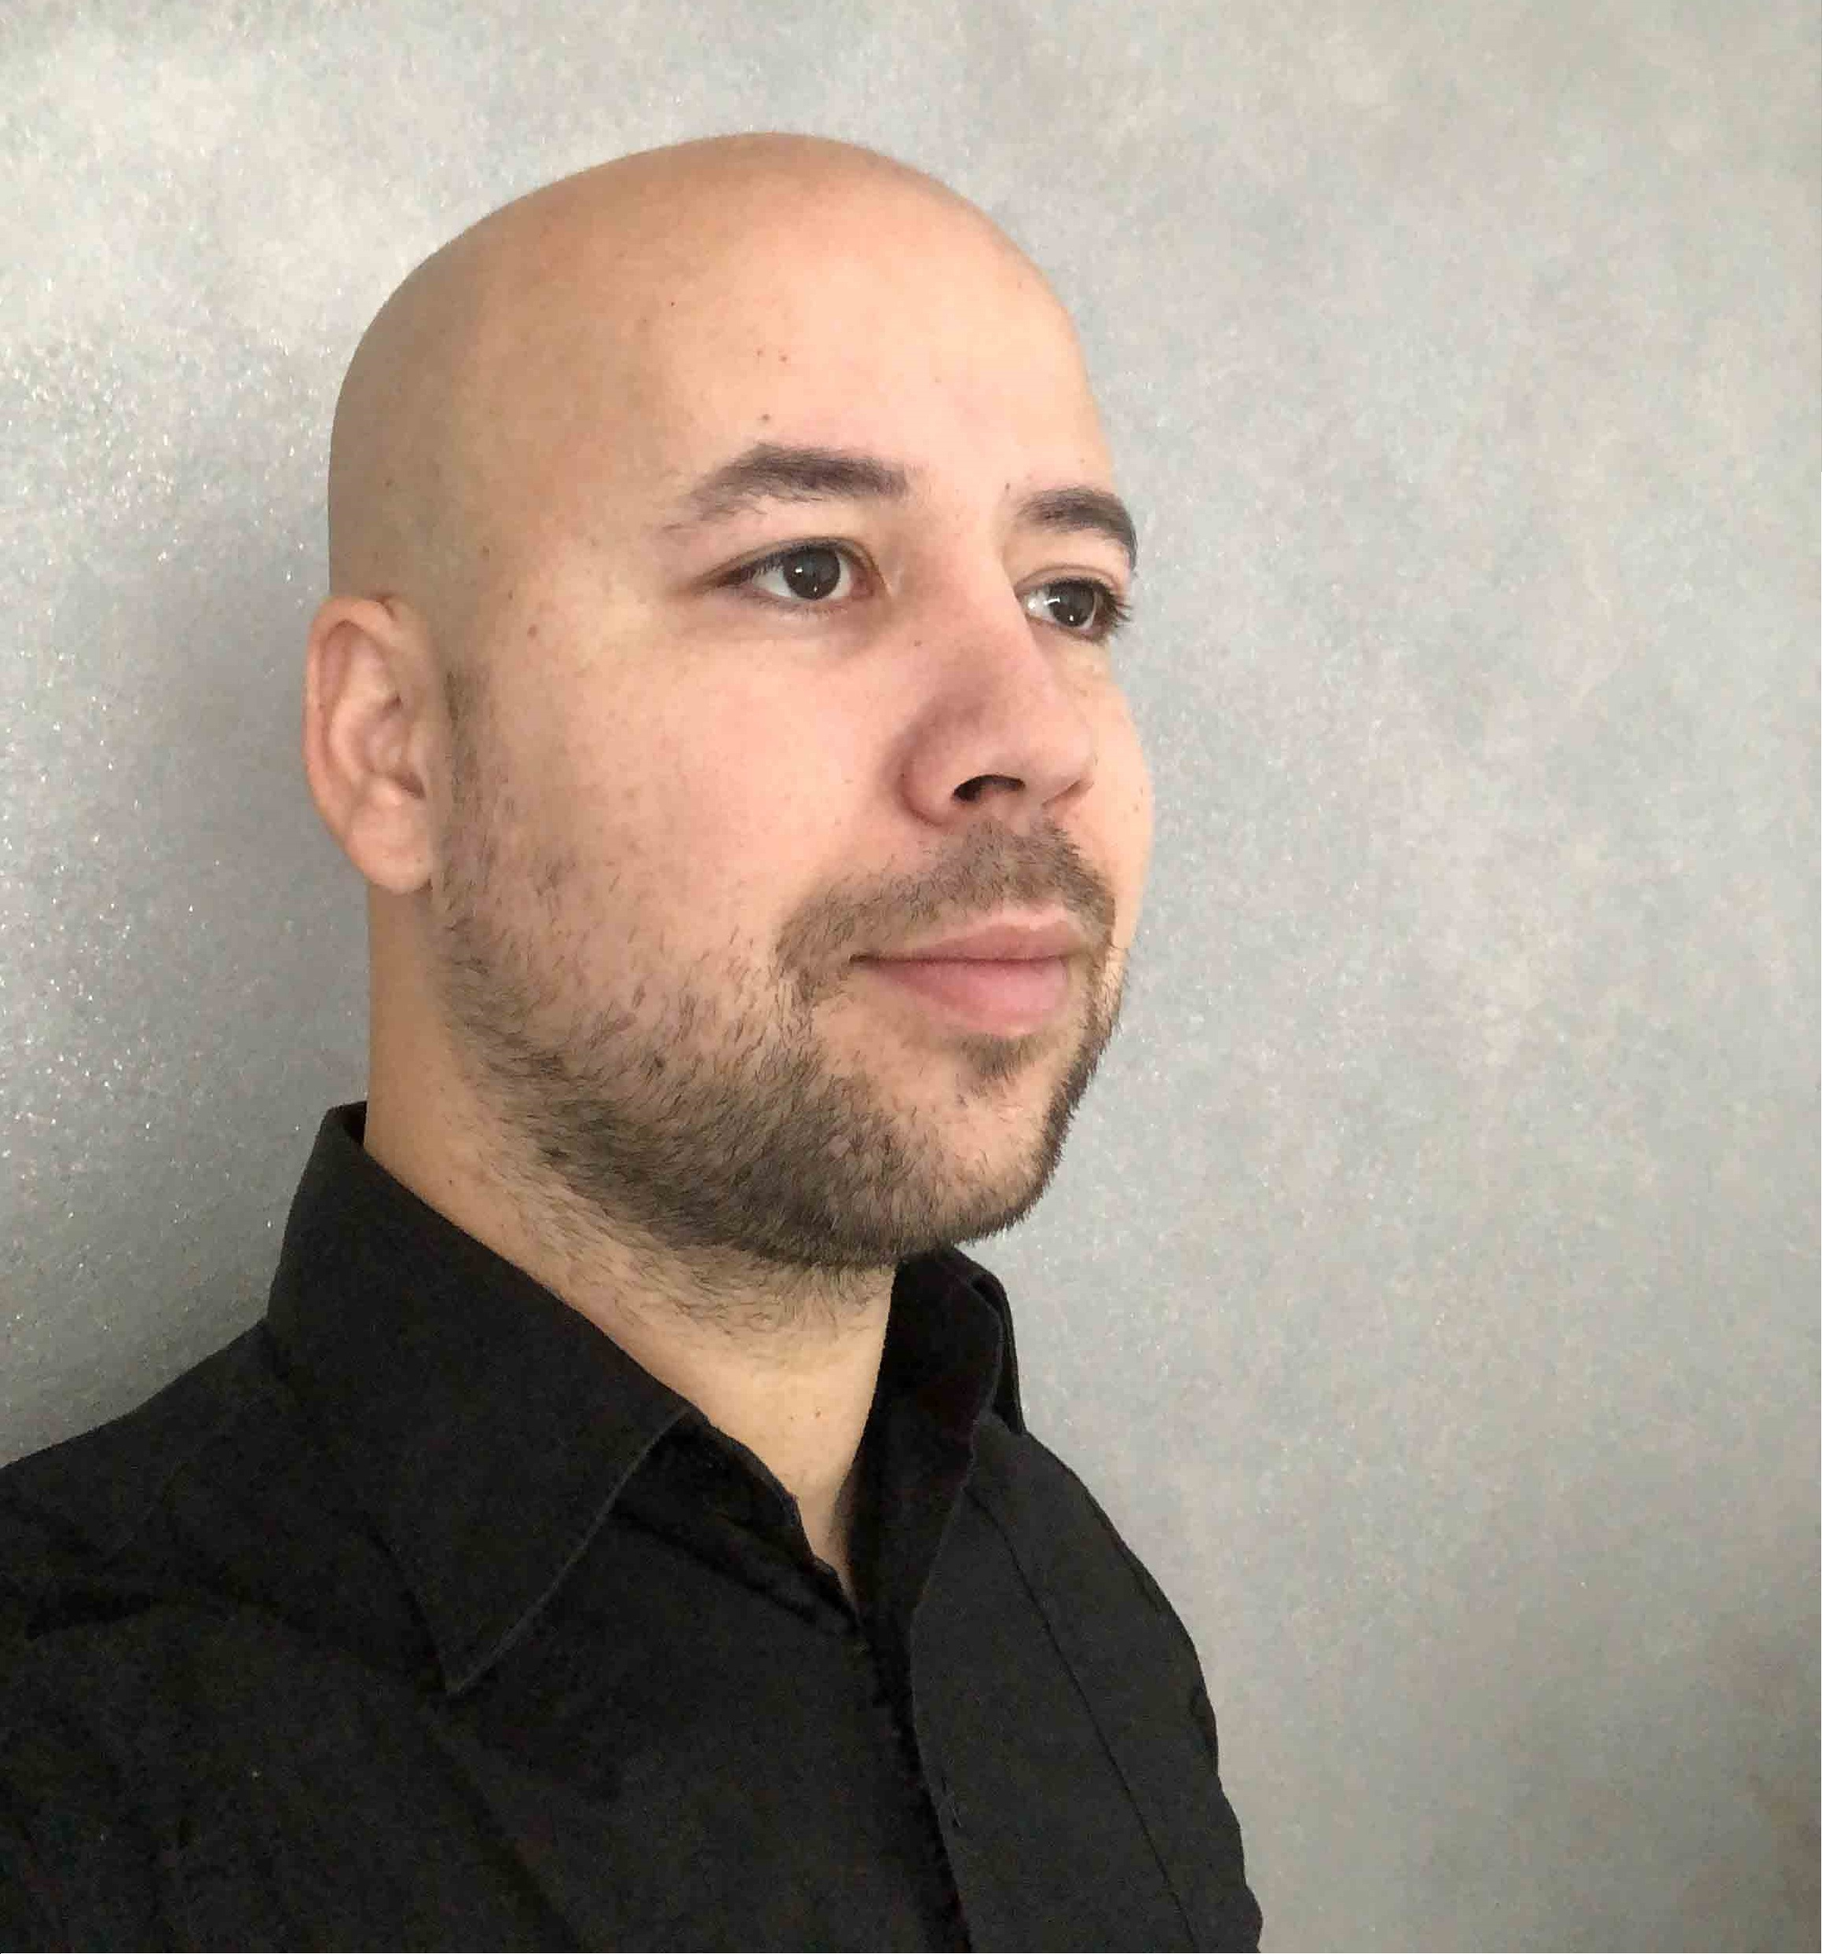
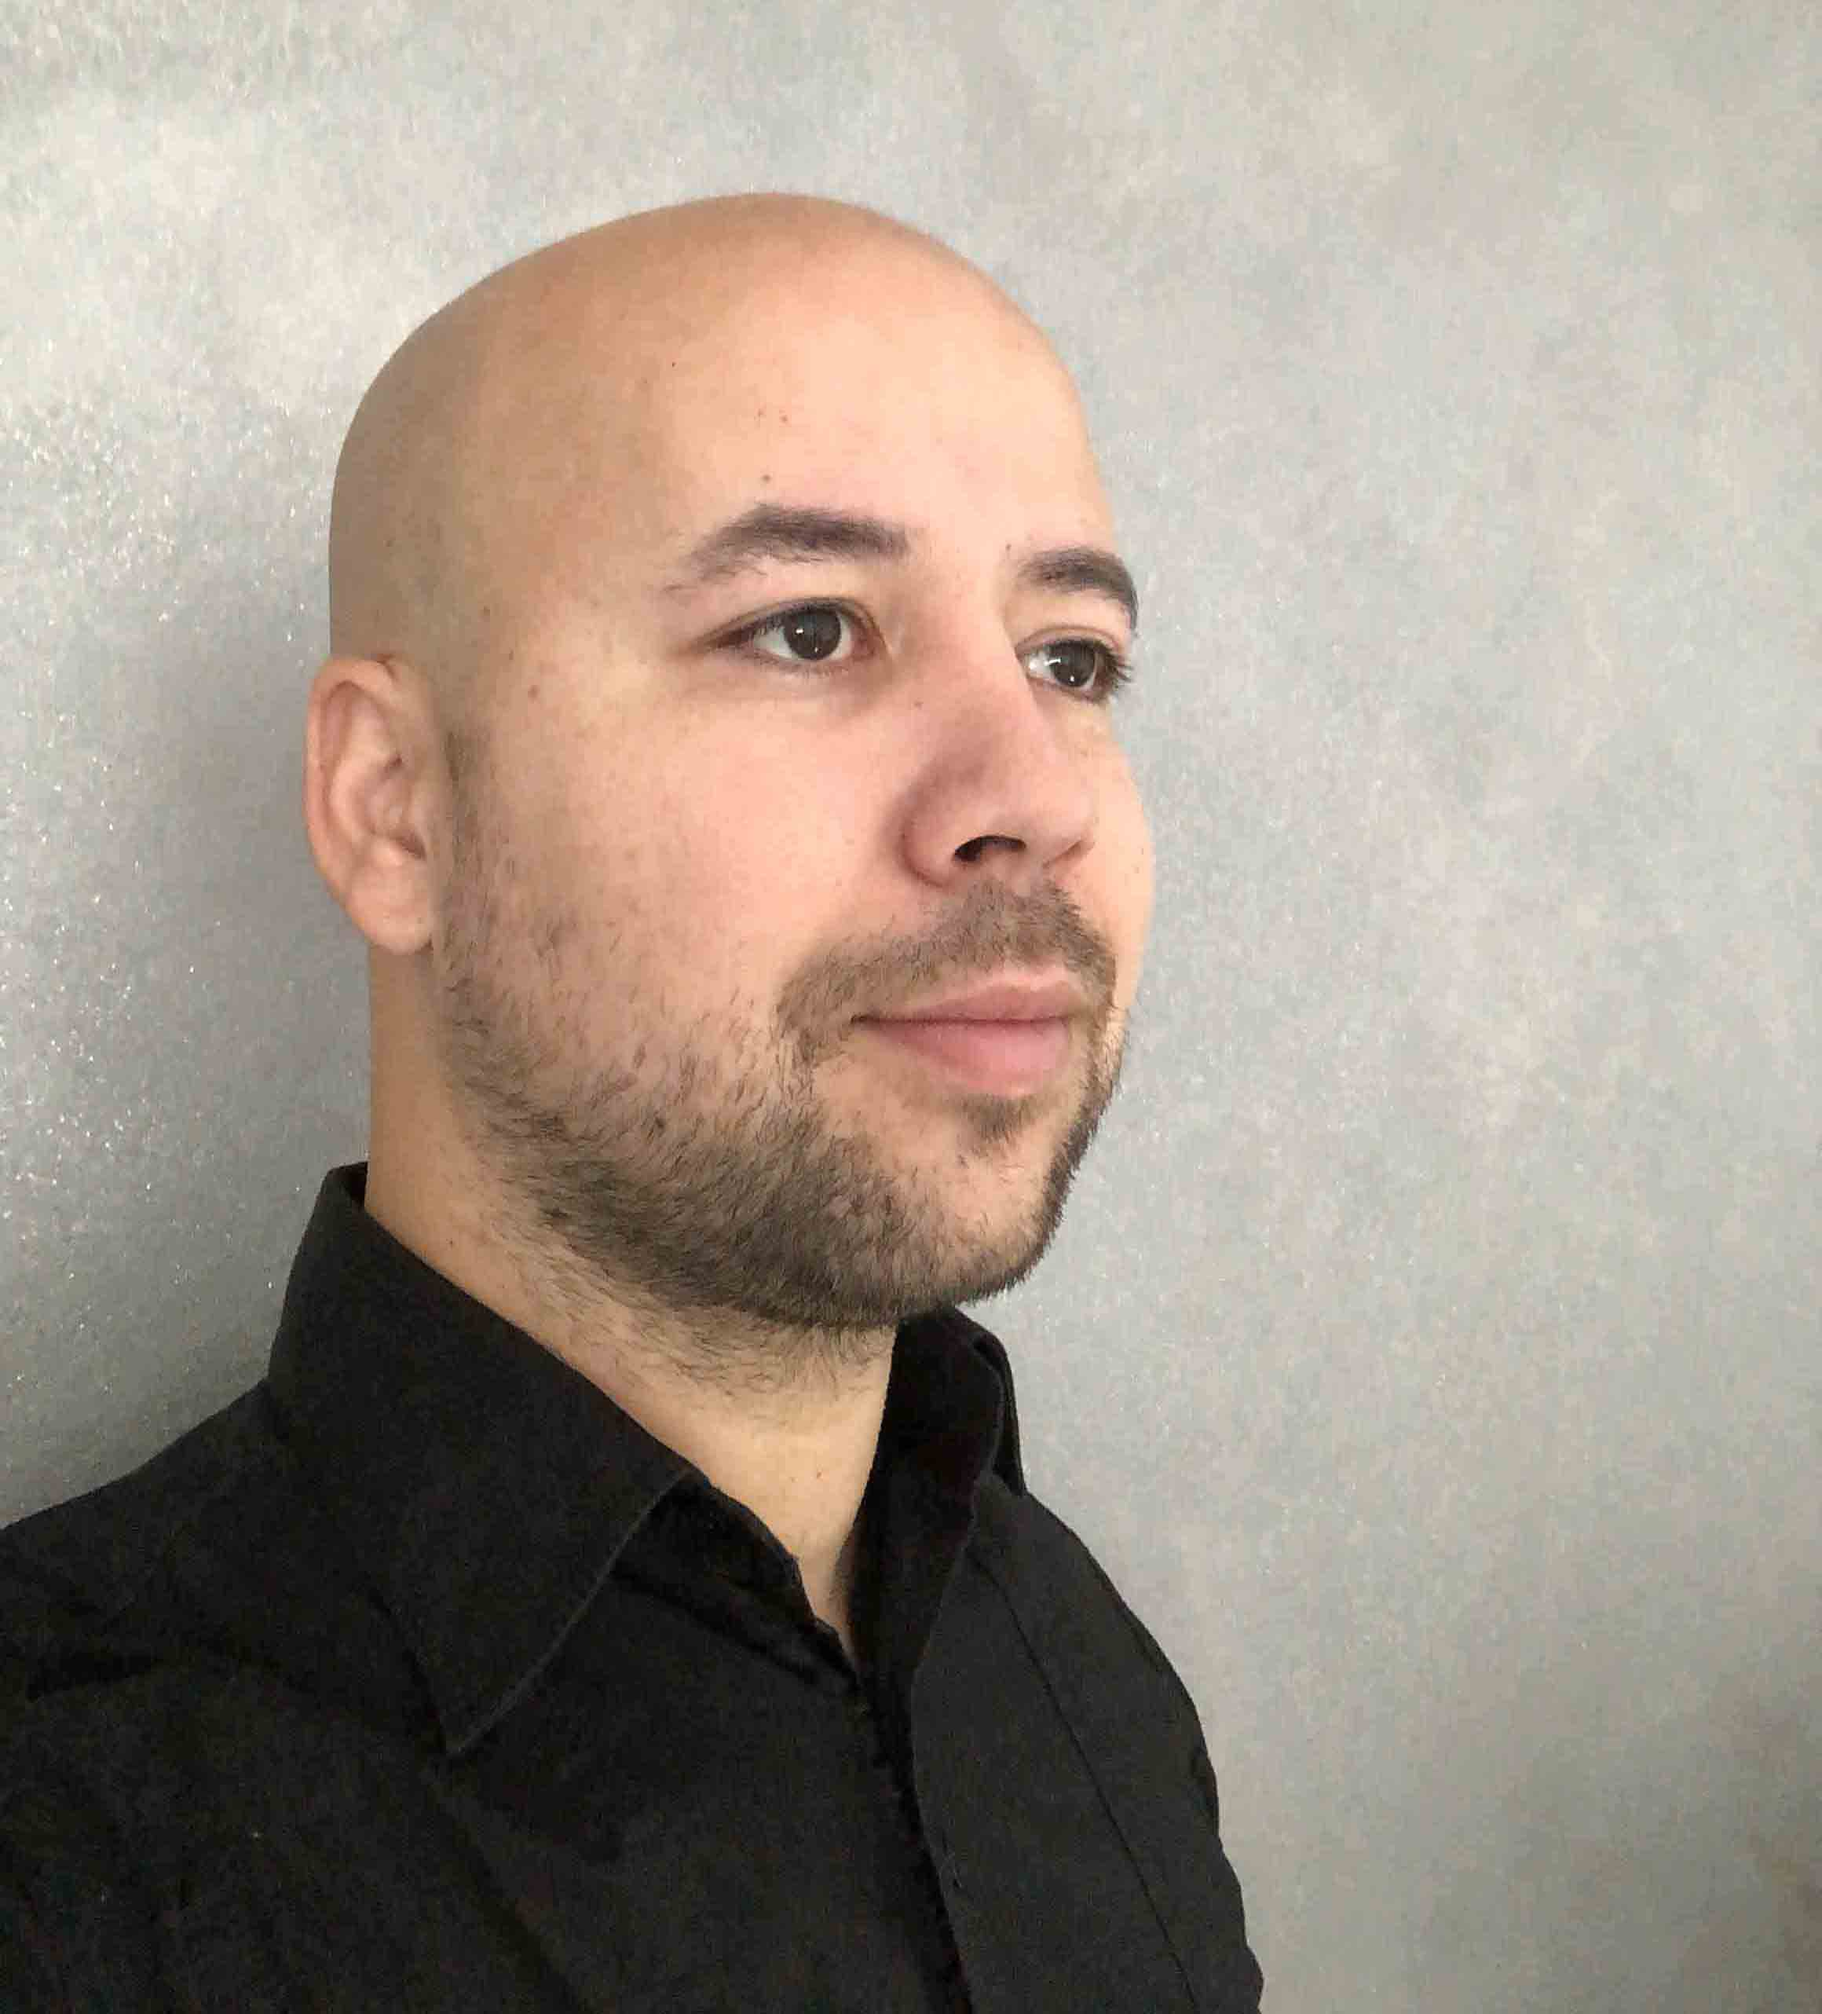
modification de la photo de profil

diff --git a/content/students/Cedric.md b/content/students/Cedric.md
@@ -13,7 +13,7 @@ date: 2020-10-14 15:00
 # One line.
 # If you need more space, go to the next line and add 4 spaces on the left, as in 'description'.
 objective: Devenir un développeur junior autonome.
-short_description: Père de famille en pleine reconversion
+short_description: Rattrapé par la passion du Code !
 
 # Ne modifiez pas le paramètre 'template', seulement la description
 template: students
@@ -46,7 +46,7 @@ projects:
     finished: true
   - title: Aidez MacGyver à sortir !
     description: Création d’un jeu développé en Python et utilisant PyGame.
-    image: 
+    image: Cedric/projet3.jpg
     link: 
     finished: false
 ---
